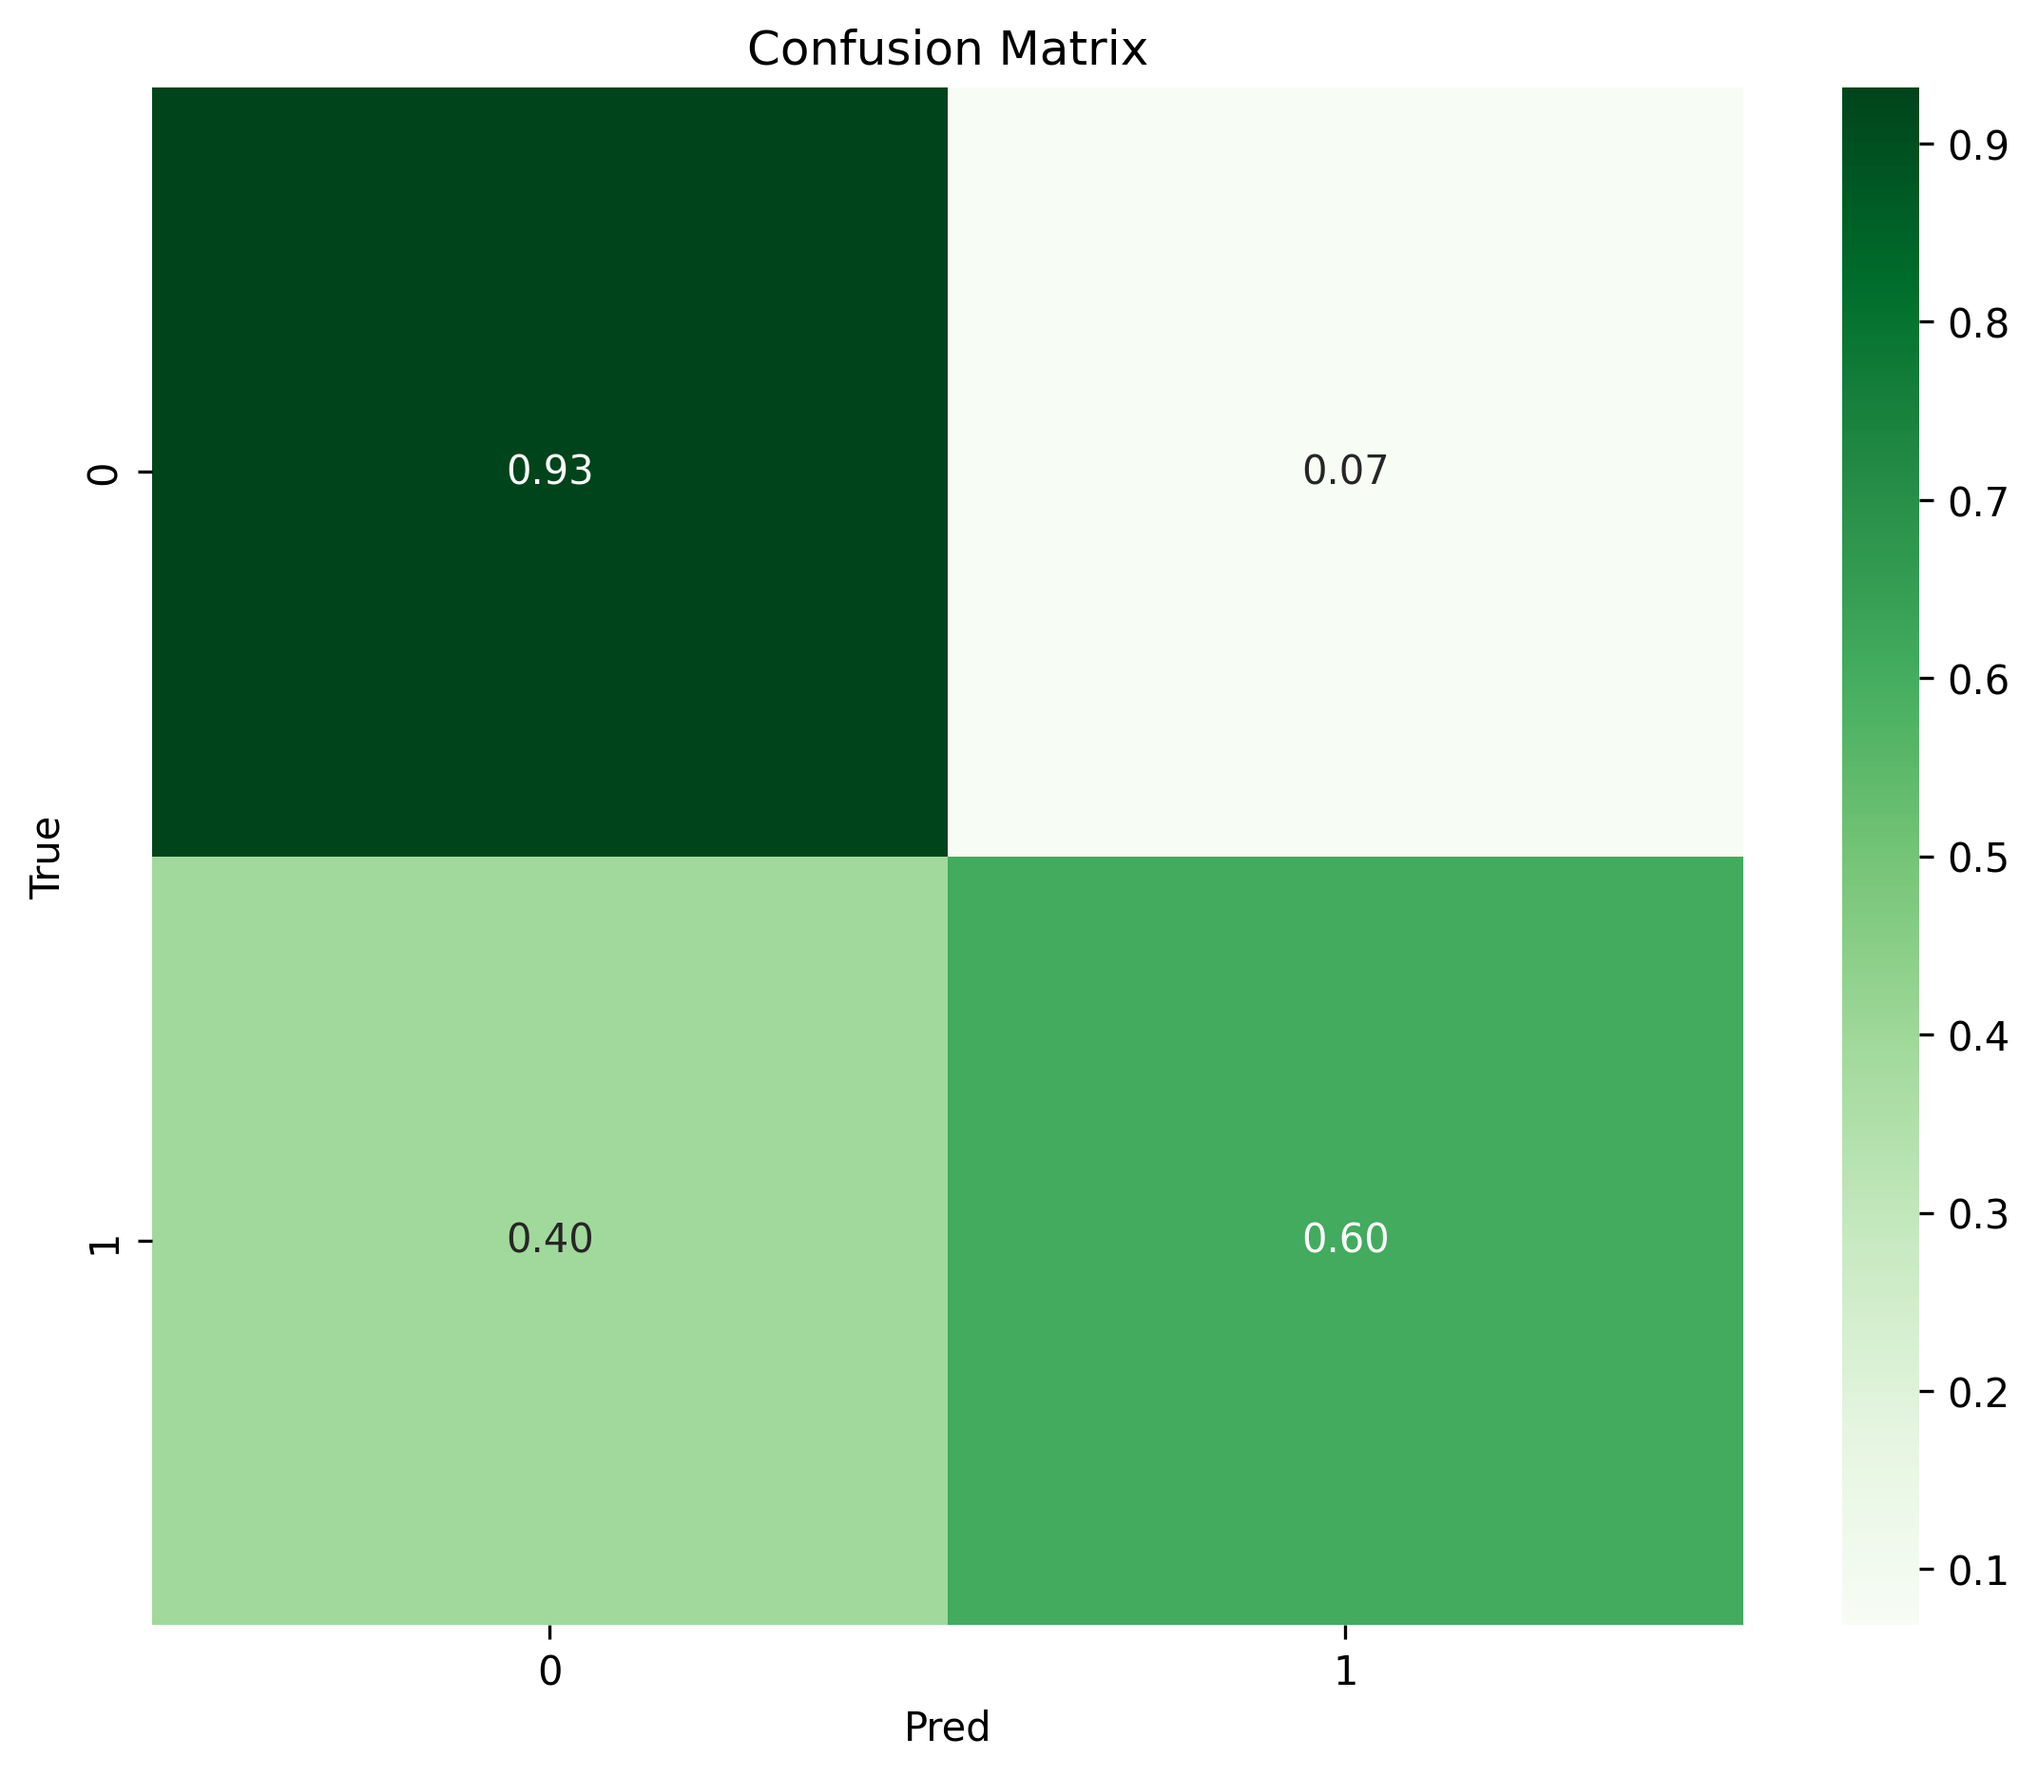
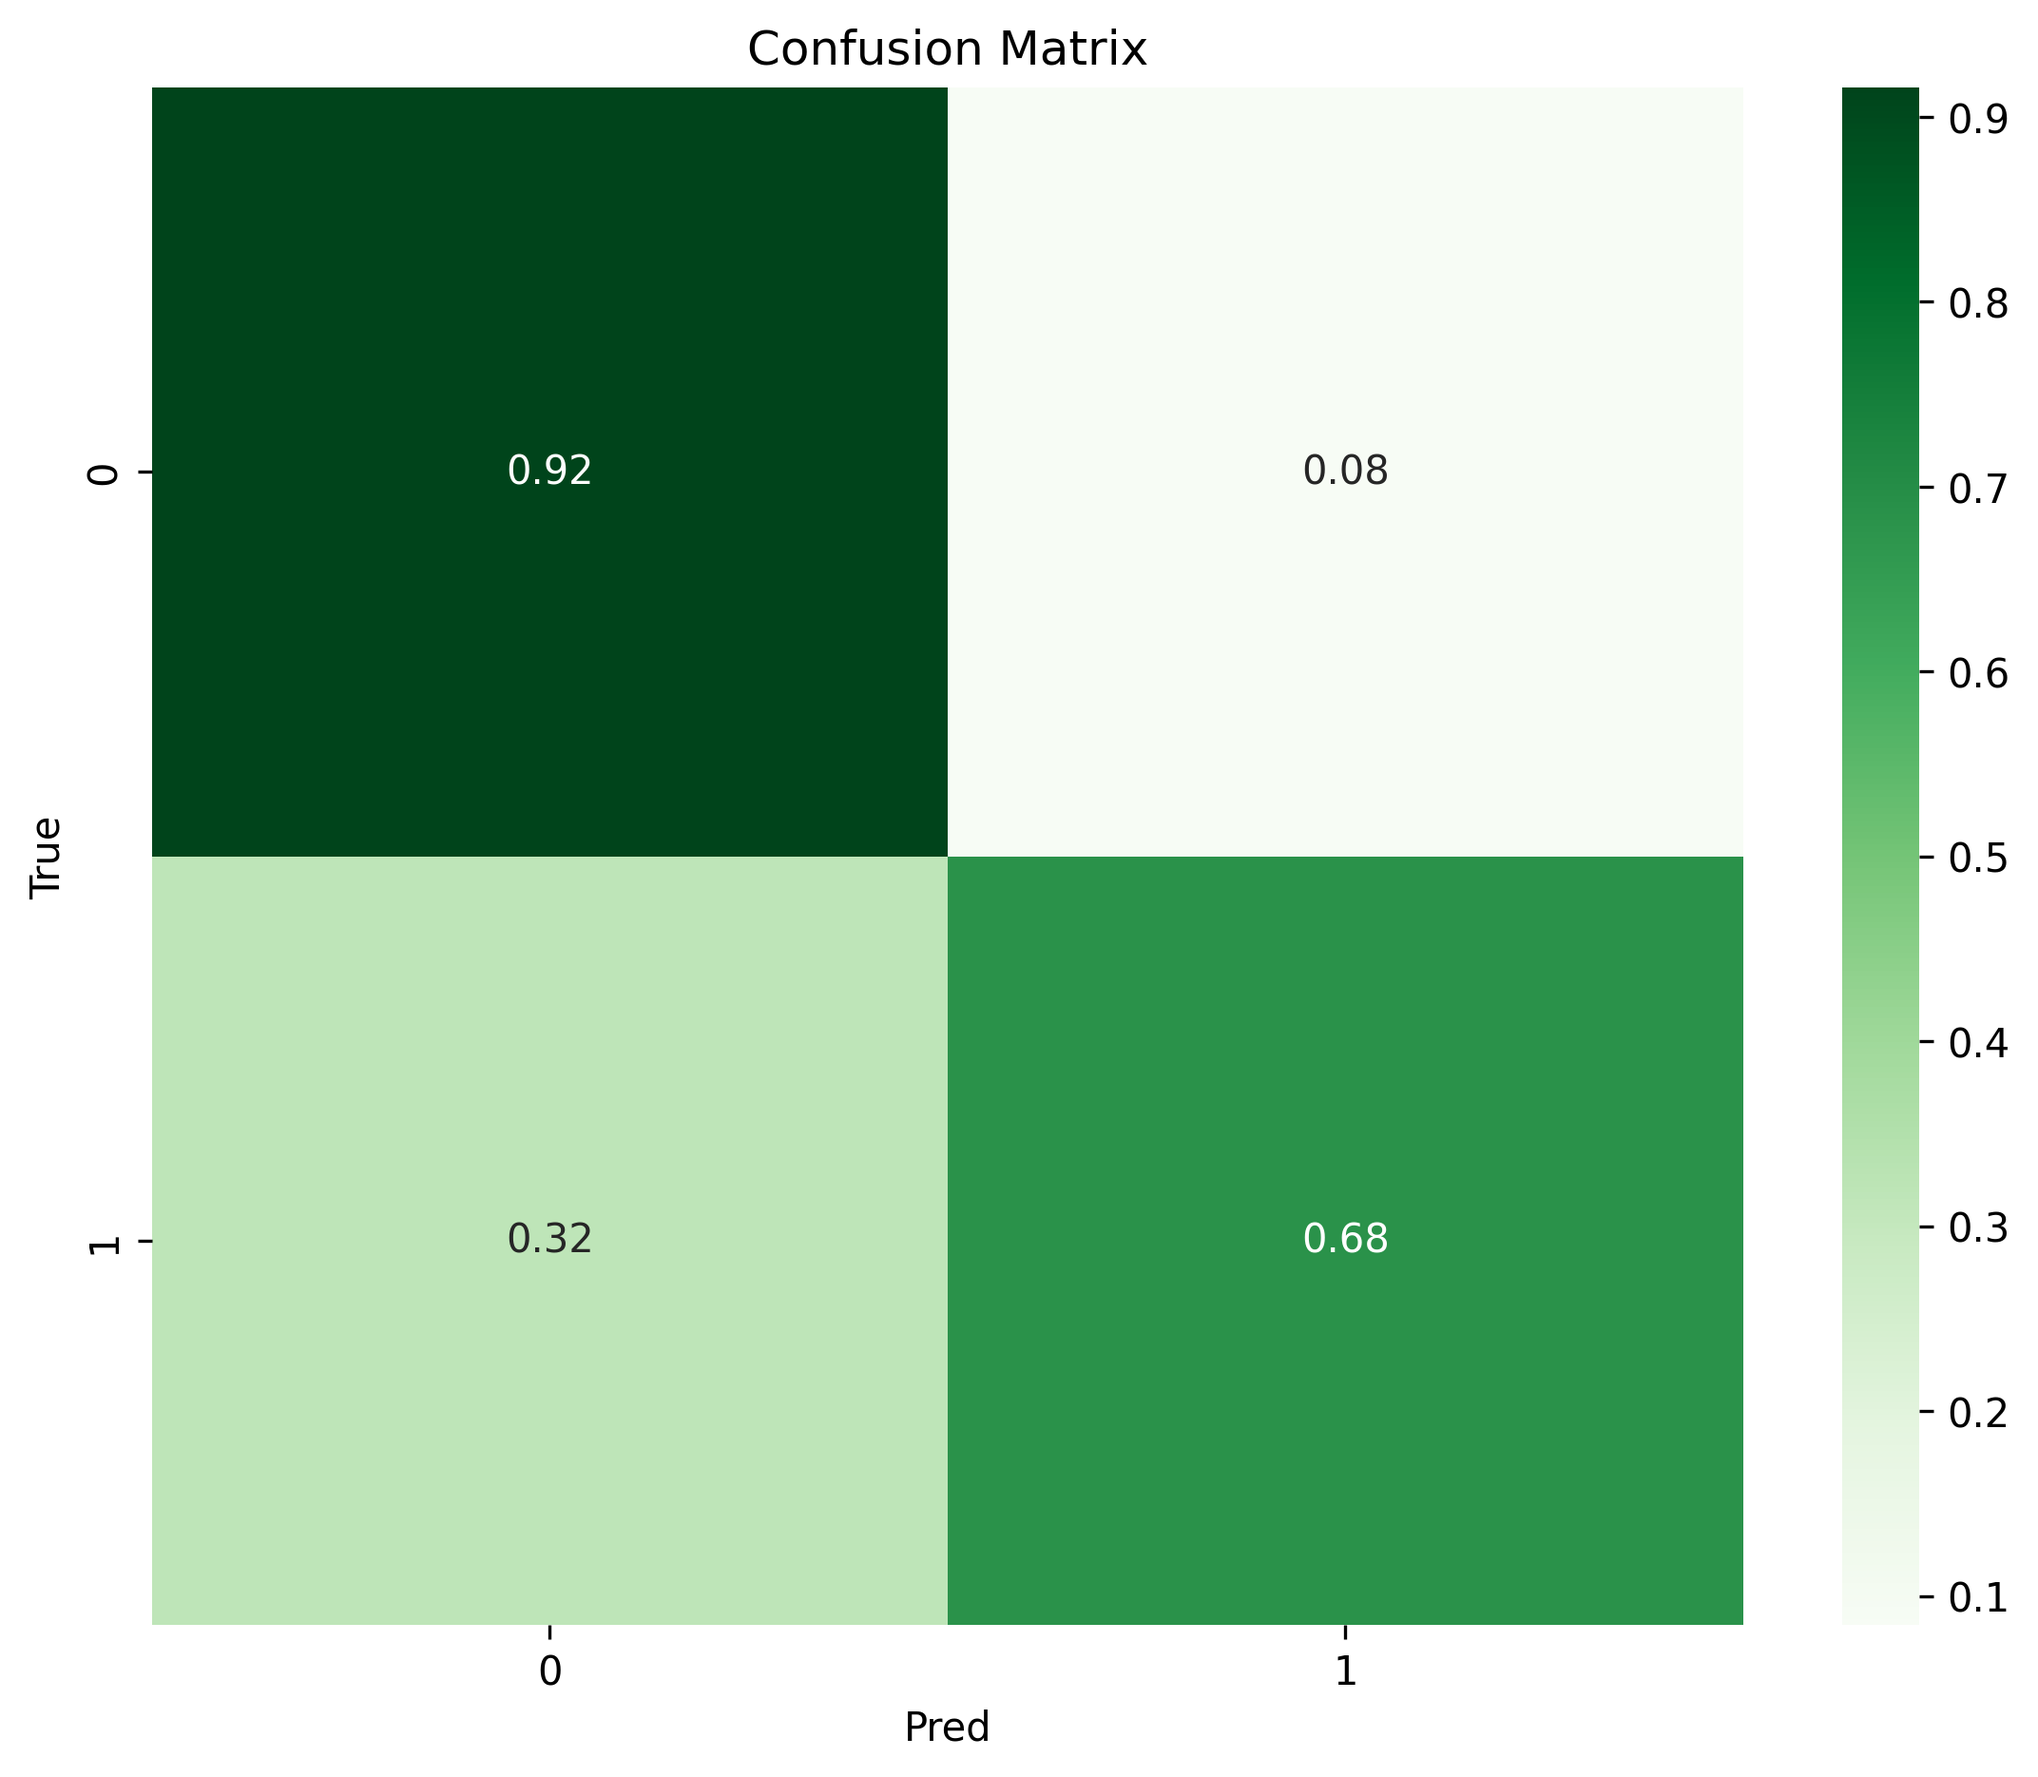
feat: improved pipeline

diff --git a/src/income_kedro/pipelines/income/nodes.py b/src/income_kedro/pipelines/income/nodes.py
@@ -2,10 +2,11 @@ import pandas as pd
 from sklearn.model_selection import train_test_split
 from sklearn.preprocessing import OneHotEncoder, StandardScaler
 from sklearn.compose import ColumnTransformer
-from sklearn.linear_model import LogisticRegression
+from sklearn.ensemble import RandomForestClassifier
 from sklearn.metrics import f1_score, precision_score, recall_score, precision_recall_curve, auc, confusion_matrix
 import matplotlib.pyplot as plt
 import seaborn as sns
+import numpy as np
 
 
 def clean_data(df: pd.DataFrame) -> pd.DataFrame:
@@ -81,6 +82,8 @@ def fit_preprocessor(X_train: pd.DataFrame, feature_params) -> ColumnTransformer
     """
 
     X_train = X_train.copy()
+
+    print(X_train.columns)
 
     cat_cols = feature_params['cat_cols']
     num_cols = feature_params['num_cols']
@@ -182,17 +185,22 @@ def train_model(X_train, y_train, model_params):
         Fitted Logistic Regression model.
     """
 
-    model = LogisticRegression(
-        C=model_params["C"],
-        penalty=model_params["penalty"],
-        solver=model_params["solver"],
-        random_state=model_params["random_state"],
-    )
+    model = RandomForestClassifier(**model_params)
     model.fit(X_train, y_train)
     return model
 
 
-def _gen_metrics(model, X_test, y_test):
+def _predict(model, model_configs, X_test):
+    threshold = model_configs['threshold']
+    scores = model.predict_proba(X_test)[:, 1]
+    return (scores >= threshold).astype(int)
+
+
+def _predict_proba(model, X_test):
+    return model.predict_proba(X_test)
+
+
+def _gen_metrics(model, model_configs, X_test, y_test):
     """
     Compute classification performance metrics.
 
@@ -216,7 +224,7 @@ def _gen_metrics(model, X_test, y_test):
         Dictionary containing f1_score, precision, and recall.
     """
 
-    y_pred = model.predict(X_test)
+    y_pred = _predict(model, model_configs, X_test)
 
     f1 = f1_score(y_test, y_pred)
     pr = precision_score(y_test, y_pred)
@@ -229,7 +237,7 @@ def _gen_metrics(model, X_test, y_test):
         }
 
 
-def _store_pr_curve(model, X_test, y_test):
+def _store_pr_curve(model, model_configs, X_test, y_test):
     """
     Generate and save the Precision-Recall curve.
 
@@ -249,7 +257,7 @@ def _store_pr_curve(model, X_test, y_test):
     None
     """
 
-    y_score = model.predict_proba(X_test)[:, 1]
+    y_score = _predict_proba(model, X_test)[:, 1]
     pr, rc, _ = precision_recall_curve(y_test, y_score)
     auc_ = auc(rc, pr)
 
@@ -290,7 +298,7 @@ def _store_pr_curve(model, X_test, y_test):
     return
 
 
-def _store_confusion_matrix(model ,X_test, y_test):
+def _store_confusion_matrix(model, model_configs, X_test, y_test):
     """
     Generate and save the normalized confusion matrix heatmap.
 
@@ -311,7 +319,7 @@ def _store_confusion_matrix(model ,X_test, y_test):
     None
     """
 
-    y_pred = model.predict(X_test)
+    y_pred = _predict(model, model_configs, X_test)
     cm = confusion_matrix(y_test, y_pred, normalize='true')
 
     plt.figure(figsize=(9, 7))
@@ -329,7 +337,7 @@ def _store_confusion_matrix(model ,X_test, y_test):
     )
 
 
-def evaluate_model(model, X_test, y_test):
+def evaluate_model(model, model_configs, X_test, y_test):
     """
     Evaluate a trained model and store evaluation artifacts.
 
@@ -353,8 +361,8 @@ def evaluate_model(model, X_test, y_test):
         Dictionary containing evaluation metrics.
     """
 
-    metrics = _gen_metrics(model, X_test, y_test)
-    _store_pr_curve(model, X_test, y_test)
-    _store_confusion_matrix(model, X_test, y_test)
+    metrics = _gen_metrics(model, model_configs, X_test, y_test)
+    _store_pr_curve(model, model_configs, X_test, y_test)
+    _store_confusion_matrix(model, model_configs, X_test, y_test)
 
     return metrics

diff --git a/src/income_kedro/pipelines/income/pipeline.py b/src/income_kedro/pipelines/income/pipeline.py
@@ -41,7 +41,7 @@ def create_pipeline(**kwargs):
             ),
             node(
                 evaluate_model,
-                inputs=["model", "X_test_features", "y_test_features"],
+                inputs=["model",  "params:model_configs", "X_test_features", "y_test_features"],
                 outputs="metrics",
             ),
         ]
